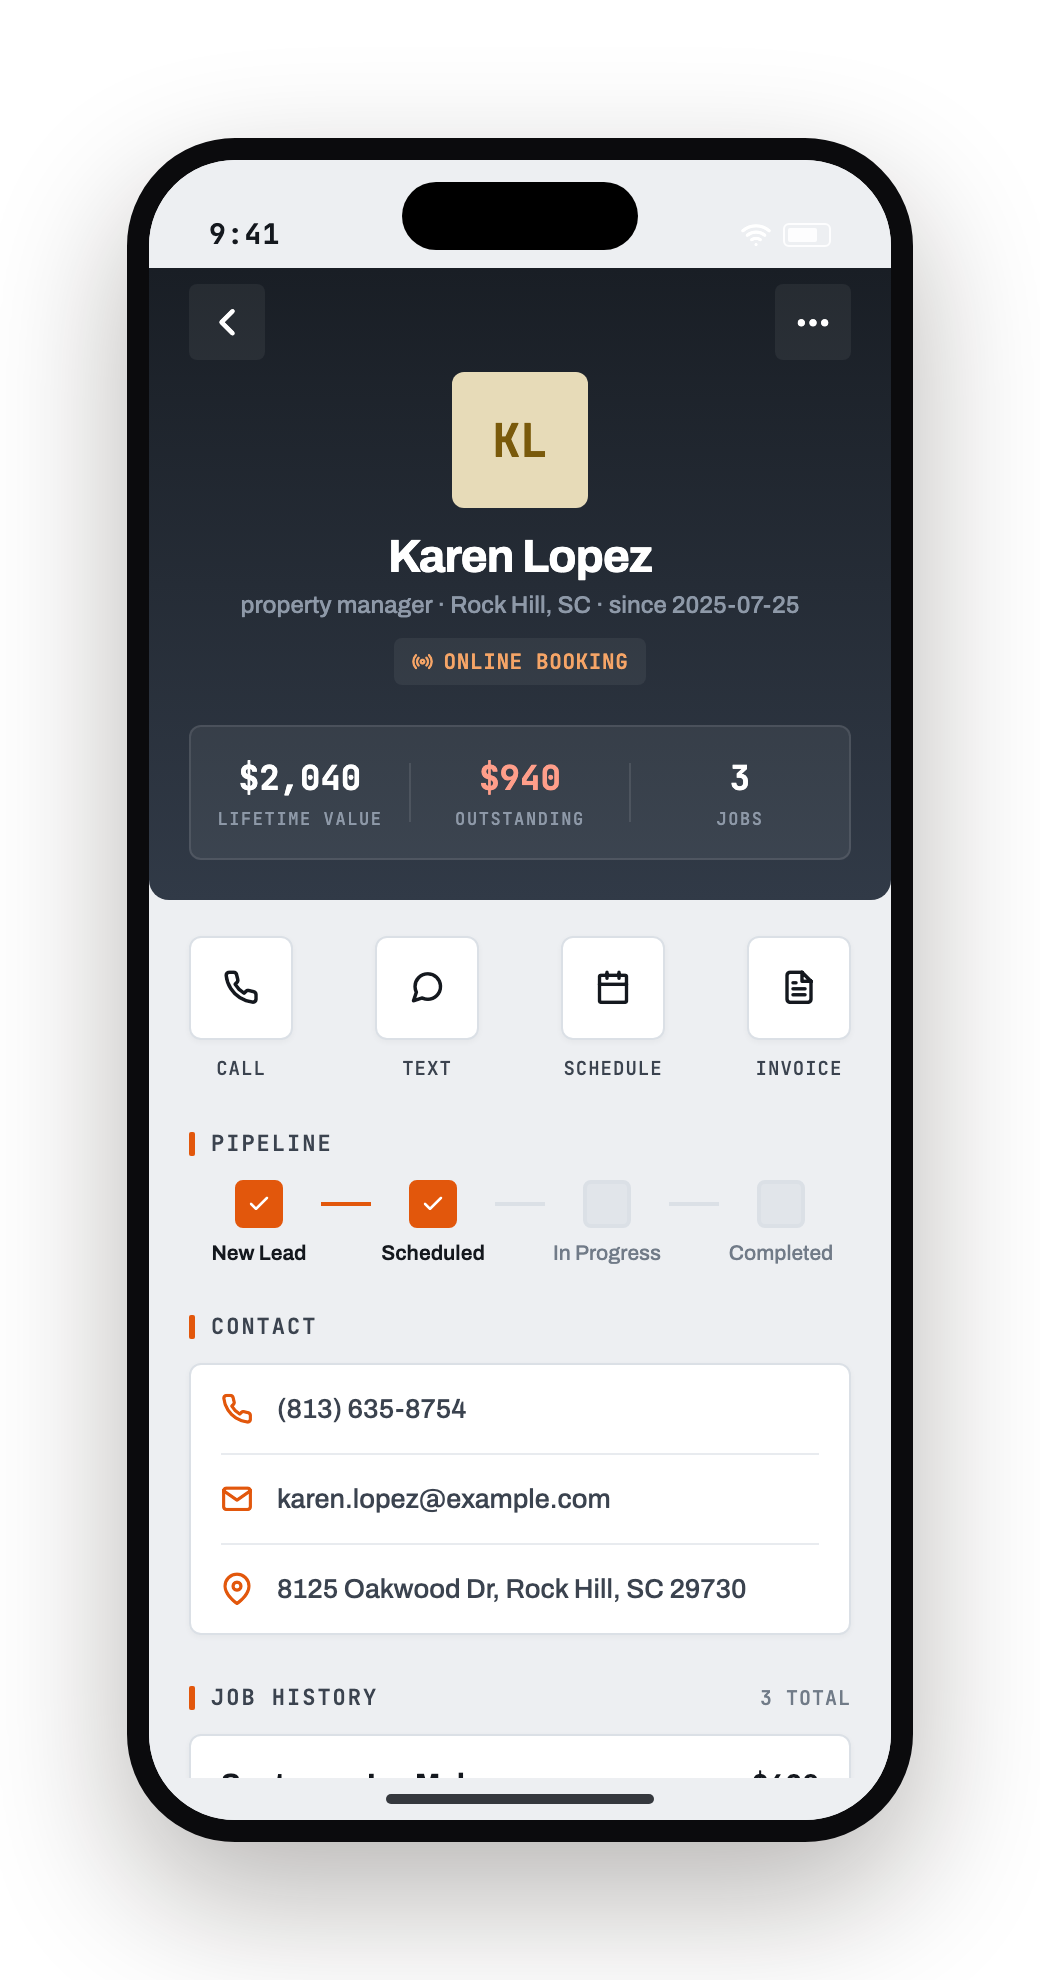
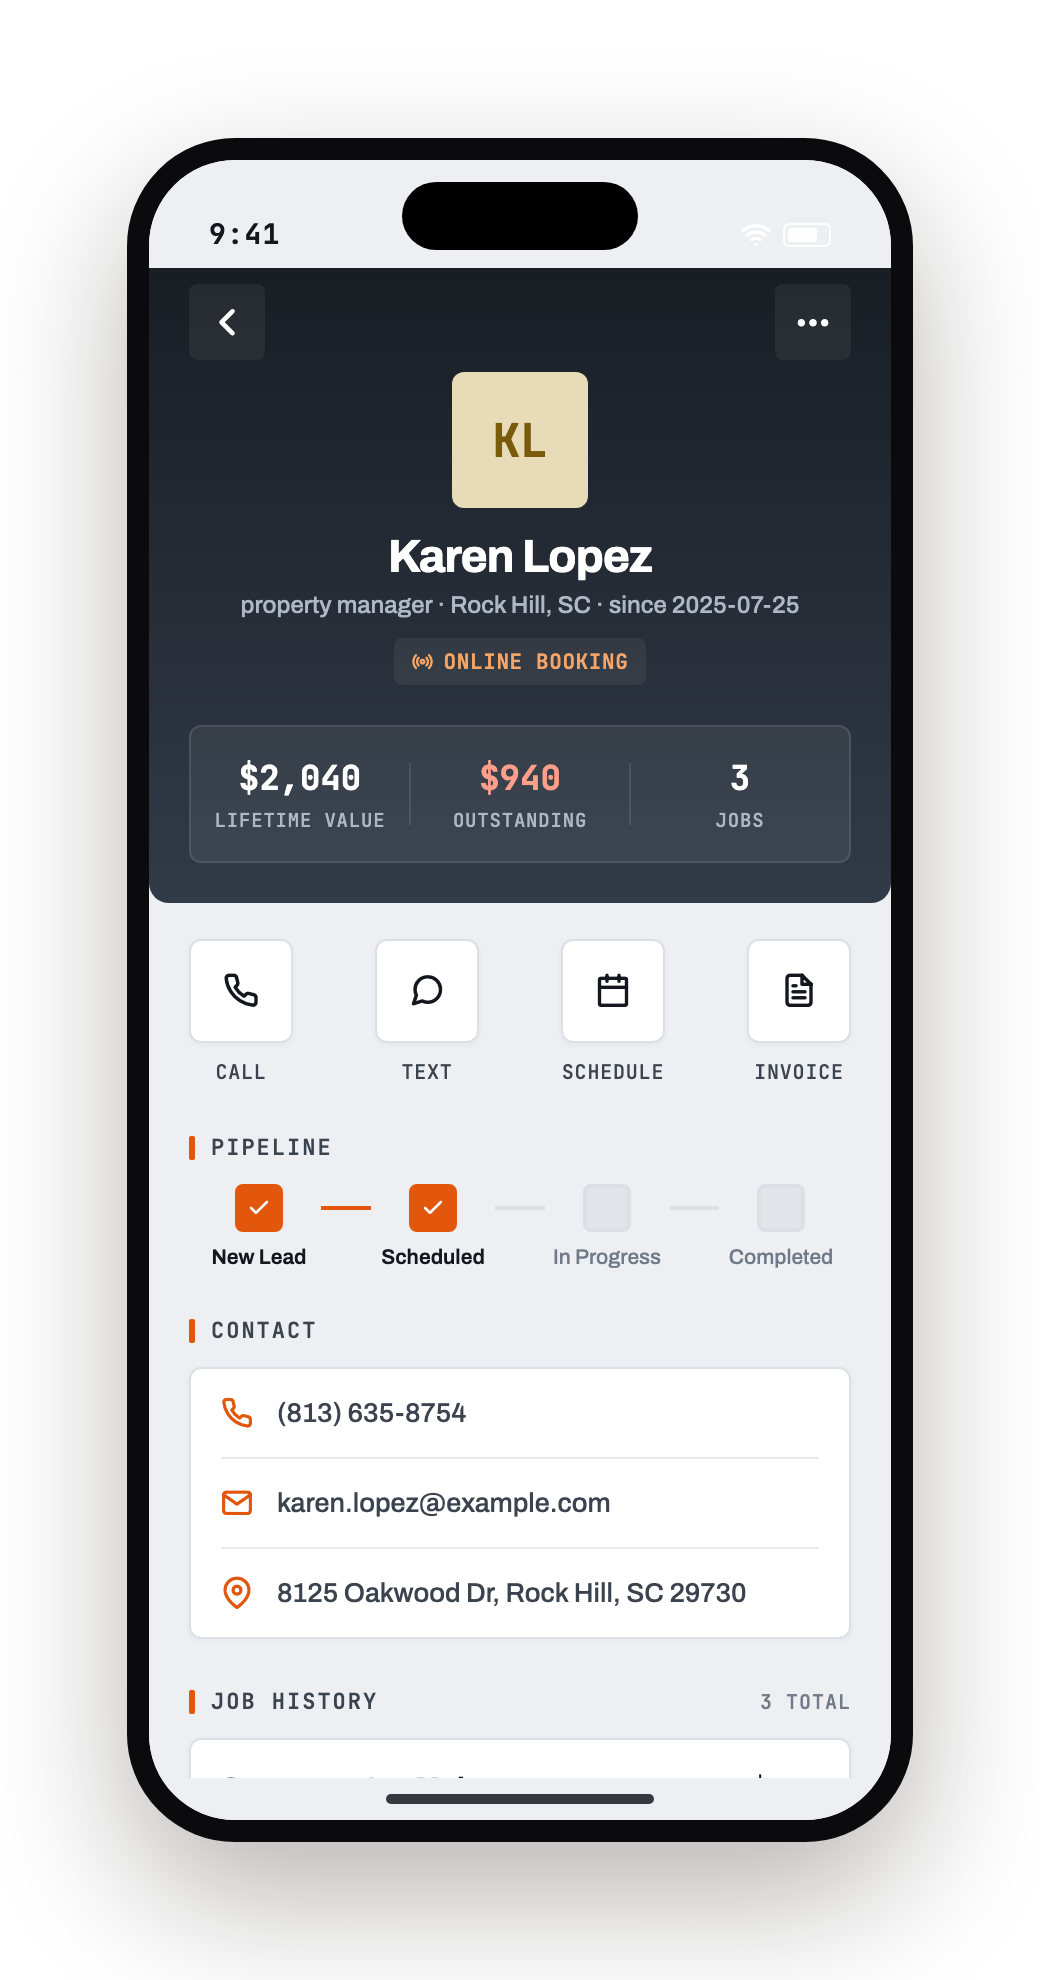
Readability pass (Client Hub) + deeper Solva screen tests
Client Hub #13 — legibility of the mono micro-labels:
- Brighten the on-graphite label colour (hero.muted #8E99A8 -> #AEB7C4) for
  contrast on the dark hero/detail headers.
- Raise every sub-10px mono label to >=9.5px and trim over-wide letter-spacing:
  hero foot labels, spark month labels, SAMPLE DATA pill, Client 360 money
  labels + action labels, tab-bar labels. No layout change (verified by reshoot).
- Screens reshot + hero rebuilt.

Solva #15 — broaden render coverage from 47 -> 51 tests: add Cart (empty state +
"Browse shop" -> onBack), Category (lists products, opens on press) and
ProductDetail (renders product, "Add ·" flips to "Added to bag") screen tests.

tsc --noEmit strict clean. Client Hub 22 Jest green; Solva 51 Jest green, zero
"overlapping act()" warnings.

diff --git a/storefront/src/__tests__/screens.test.tsx b/storefront/src/__tests__/screens.test.tsx
@@ -1,13 +1,11 @@
 /**
- * Screen-level render test — mounts the Shop screen inside the real theme +
- * store providers and asserts it renders live store data and wires navigation.
+ * Screen-level render tests — mount whole screens inside the real theme + store
+ * providers and assert they render live store data and wire navigation / cart.
  *
- * Kept in its own file: React 19 + RTL v14 render async, and a screen's
- * AsyncStorage-hydrating providers don't compose cleanly with many sibling
- * component tests in one file (overlapping act()). One file = one module
- * registry, so this stays isolated and deterministic.
- *
- * Note: RTL v14 (React 19) `render` is async — always `await` it.
+ * Kept in their own file: React 19 + RTL v14 render async, and AsyncStorage-
+ * hydrating providers don't compose cleanly with many sibling component tests in
+ * one file (overlapping act()). One file = one module registry → deterministic.
+ * Interactions use `userEvent` (async, wraps updates in act).
  */
 import React from 'react';
 import { render, userEvent } from '@testing-library/react-native';
@@ -15,26 +13,24 @@ import { render, userEvent } from '@testing-library/react-native';
 import { ThemeProvider } from '../theme-context';
 import { StoreProvider } from '../store';
 import Shop from '../screens/Shop';
+import Cart from '../screens/Cart';
+import Category from '../screens/Category';
+import ProductDetail from '../screens/ProductDetail';
 import type { Product } from '../types';
 import seed from '../data/seed.json';
 
 const products = (seed as unknown as { products: Product[] }).products;
 
-const renderShop = (props: React.ComponentProps<typeof Shop>) =>
+const mount = (ui: React.ReactElement) =>
   render(
     <ThemeProvider>
-      <StoreProvider>
-        <Shop {...props} />
-      </StoreProvider>
+      <StoreProvider>{ui}</StoreProvider>
     </ThemeProvider>,
   );
 
 describe('Shop screen', () => {
   it('renders the brand and its bestsellers from the store', async () => {
-    const { findByText, getAllByText } = await renderShop({
-      onOpenProduct: jest.fn(),
-      onOpenCategory: jest.fn(),
-    });
+    const { findByText, getAllByText } = await mount(<Shop onOpenProduct={jest.fn()} onOpenCategory={jest.fn()} />);
     expect(await findByText('Solva')).toBeTruthy();
     const bestseller = products.find((p) => p.bestseller)!;
     expect(getAllByText(bestseller.name).length).toBeGreaterThan(0);
@@ -43,10 +39,58 @@ describe('Shop screen', () => {
   it('opens a product when a bestseller card is pressed', async () => {
     const user = userEvent.setup();
     const onOpenProduct = jest.fn();
-    const { findAllByText } = await renderShop({ onOpenProduct, onOpenCategory: jest.fn() });
+    const { findAllByText } = await mount(<Shop onOpenProduct={onOpenProduct} onOpenCategory={jest.fn()} />);
     const bestseller = products.find((p) => p.bestseller)!;
     const cards = await findAllByText(bestseller.name);
     await user.press(cards[0]);
     expect(onOpenProduct).toHaveBeenCalled();
+  });
+});
+
+describe('Cart screen', () => {
+  it('shows the empty state when the bag has no lines', async () => {
+    const { findByText } = await mount(
+      <Cart onBack={jest.fn()} onCheckout={jest.fn()} onOpenProduct={jest.fn()} />,
+    );
+    // Store hydrates to an empty cart under jest (no ?seedcart param).
+    expect(await findByText('Your bag is empty')).toBeTruthy();
+  });
+
+  it('"Browse shop" from the empty state calls onBack', async () => {
+    const user = userEvent.setup();
+    const onBack = jest.fn();
+    const { findByText } = await mount(
+      <Cart onBack={onBack} onCheckout={jest.fn()} onOpenProduct={jest.fn()} />,
+    );
+    await user.press(await findByText('Browse shop'));
+    expect(onBack).toHaveBeenCalledTimes(1);
+  });
+});
+
+describe('Category screen', () => {
+  it('lists products and opens one on press', async () => {
+    const user = userEvent.setup();
+    const onOpenProduct = jest.fn();
+    const { findAllByText } = await mount(
+      <Category initial="all" onBack={jest.fn()} onOpenProduct={onOpenProduct} />,
+    );
+    const anyProduct = products.find((p) => p.id !== 'p00')!;
+    const cards = await findAllByText(anyProduct.name);
+    await user.press(cards[0]);
+    expect(onOpenProduct).toHaveBeenCalled();
+  });
+});
+
+describe('ProductDetail screen', () => {
+  const product = products.find((p) => p.id === 'p01')!;
+
+  it('renders the product and adds it to the bag', async () => {
+    const user = userEvent.setup();
+    const { findByText, getByText } = await mount(
+      <ProductDetail productId={product.id} onBack={jest.fn()} onOpenCart={jest.fn()} onOpenProduct={jest.fn()} />,
+    );
+    expect(await findByText(product.name)).toBeTruthy();
+    await user.press(getByText(/^Add ·/)); // "Add · $52"
+    expect(await findByText('✓ Added to bag')).toBeTruthy();
   });
 });

diff --git a/client-hub/src/screens/Dashboard.tsx b/client-hub/src/screens/Dashboard.tsx
@@ -167,7 +167,7 @@ const styles = StyleSheet.create({
   topbar: { flexDirection: 'row', justifyContent: 'space-between', alignItems: 'center', marginBottom: 16 },
   brandRow: { flexDirection: 'row', alignItems: 'center', gap: 8 },
   demoPill: { backgroundColor: colors.paperDeep, borderRadius: radius.sm, borderWidth: 1, borderColor: colors.line, paddingHorizontal: 7, paddingVertical: 3 },
-  demoText: { fontFamily: font.mono, fontSize: 8.5, letterSpacing: 1, color: colors.muted },
+  demoText: { fontFamily: font.mono, fontSize: 9.5, letterSpacing: 0.8, color: colors.muted },
   brand: { fontFamily: font.display, fontSize: 23, color: colors.ink, letterSpacing: -0.5 },
   date: { fontFamily: font.med, fontSize: 12.5, color: colors.muted, marginTop: 3 },
   bell: { width: 40, height: 40, borderRadius: radius.md, backgroundColor: colors.card, borderWidth: 1, borderColor: colors.line, alignItems: 'center', justifyContent: 'center', ...shadow.soft },
@@ -182,10 +182,10 @@ const styles = StyleSheet.create({
   spark: { flexDirection: 'row', alignItems: 'flex-end', gap: 8, height: 64, marginTop: 14 },
   sparkCol: { flex: 1, alignItems: 'center', justifyContent: 'flex-end', gap: 6 },
   sparkBar: { alignSelf: 'stretch', backgroundColor: colors.accent, borderRadius: 1 },
-  sparkLabel: { fontFamily: font.mono, fontSize: 9, color: hero.muted, letterSpacing: 0.3 },
+  sparkLabel: { fontFamily: font.mono, fontSize: 9.5, color: hero.muted, letterSpacing: 0.3 },
   heroFoot: { flexDirection: 'row', alignItems: 'center', marginTop: 18 },
   heroFootVal: { fontFamily: font.monoSemi, fontSize: 17, color: '#FFF' },
-  heroFootLbl: { fontFamily: font.mono, fontSize: 9, color: hero.muted, marginTop: 3, letterSpacing: 0.8 },
+  heroFootLbl: { fontFamily: font.mono, fontSize: 10, color: hero.muted, marginTop: 3, letterSpacing: 0.6 },
   heroDivider: { width: 1, height: 26, backgroundColor: hero.line, marginHorizontal: 20 },
 
   grid: { flexDirection: 'row', flexWrap: 'wrap', gap: 10, marginBottom: 20 },

diff --git a/client-hub/src/screens/ClientDetail.tsx b/client-hub/src/screens/ClientDetail.tsx
@@ -167,14 +167,14 @@ const styles = StyleSheet.create({
   moneyRow: { flexDirection: 'row', marginTop: 20, backgroundColor: hero.fill, borderRadius: radius.md, borderWidth: 1, borderColor: hero.line, paddingVertical: 14 },
   moneyCol: { flex: 1, alignItems: 'center' },
   moneyVal: { fontFamily: font.monoBold, fontSize: 17, color: '#FFF' },
-  moneyLbl: { fontFamily: font.mono, fontSize: 8.5, color: hero.muted, marginTop: 4, letterSpacing: 0.8 },
+  moneyLbl: { fontFamily: font.mono, fontSize: 9.5, color: hero.muted, marginTop: 4, letterSpacing: 0.4 },
   moneyDiv: { width: 1, backgroundColor: hero.line, marginVertical: 4 },
 
   body: { padding: 20, paddingTop: 18 },
   actions: { flexDirection: 'row', justifyContent: 'space-between', marginBottom: 24 },
   action: { alignItems: 'center', gap: 8 },
   actionIcon: { width: 52, height: 52, borderRadius: radius.md, backgroundColor: colors.card, borderWidth: 1, borderColor: colors.line, alignItems: 'center', justifyContent: 'center', ...shadow.soft },
-  actionLabel: { fontFamily: font.mono, fontSize: 9.5, color: colors.inkSoft, letterSpacing: 0.5 },
+  actionLabel: { fontFamily: font.mono, fontSize: 10, color: colors.inkSoft, letterSpacing: 0.4 },
 
   stepper: { flexDirection: 'row', alignItems: 'flex-start', marginBottom: 24, paddingHorizontal: 4 },
   stepItem: { alignItems: 'center', width: 62 },

diff --git a/client-hub/App.tsx b/client-hub/App.tsx
@@ -172,6 +172,6 @@ const styles = StyleSheet.create({
     paddingBottom: 6,
   },
   tab: { flex: 1, alignItems: 'center', gap: 4 },
-  tabLabel: { fontFamily: font.mono, fontSize: 9.5, color: colors.muted, textTransform: 'uppercase', letterSpacing: 0.6 },
+  tabLabel: { fontFamily: font.mono, fontSize: 10, color: colors.muted, textTransform: 'uppercase', letterSpacing: 0.4 },
   homeIndicator: { alignSelf: 'center', width: 134, height: 5, borderRadius: 3, backgroundColor: colors.ink, opacity: 0.85, marginVertical: 8 },
 });

diff --git a/client-hub/src/theme.ts b/client-hub/src/theme.ts
@@ -32,7 +32,7 @@ export const colors = {
 export const hero = {
   grad: ['#1B2027', '#2B333F'] as const,
   detailGrad: ['#191E25', '#313A47'] as const,
-  muted: '#8E99A8',
+  muted: '#AEB7C4', // brighter than before for legible small labels on graphite
   line: 'rgba(255,255,255,0.10)',
   fill: 'rgba(255,255,255,0.06)',
   accent: '#F6A567',

diff --git a/PROGRESS.md b/PROGRESS.md
@@ -135,11 +135,12 @@ gig type and the portfolio had no shop.
 - **Persistence:** AsyncStorage cart + wishlist survive reload.
 - **Design:** premium warm palette, **inline-SVG product illustrations** (bottle/jar/tube/
   dropper/pouch, tinted per product) — cohesive boutique look with zero image assets.
-- **Quality gates:** **47 Jest tests** + `tsc --noEmit` (strict). 36 pure-logic tests
-  **plus 11 React Testing Library render tests (#15)** — `@testing-library/react-native`
-  mounts ProductCard, the UI primitives (Stars/Tag/SampleBadge/HeartButton) and the Shop
-  screen in real theme+store providers, asserting rendered text + that presses fire the
-  right callbacks (jest.setup.js mocks AsyncStorage + vector-icons). CI matrix covers all
+- **Quality gates:** **51 Jest tests** + `tsc --noEmit` (strict). 36 pure-logic tests
+  **plus 15 React Testing Library render tests (#15)** — `@testing-library/react-native`
+  mounts ProductCard + UI primitives (Stars/Tag/SampleBadge/HeartButton) and the Shop /
+  Cart / Category / ProductDetail screens in real theme+store providers, asserting
+  rendered text + that presses fire the right callbacks / update the cart (interactions
+  via `userEvent`; jest.setup.js mocks AsyncStorage + vector-icons). CI matrix covers all
   three apps; deploy builds all three (Client Hub at root, Eat2Beat + Solva at subpaths).
 - **Data:** 100% synthetic catalog (`scripts/gen_catalog.py`, fixed seed). Fictional brand
   "Solva", 17 products, 54 reviews, SAMPLE STORE badge. No real brand/customer data.
